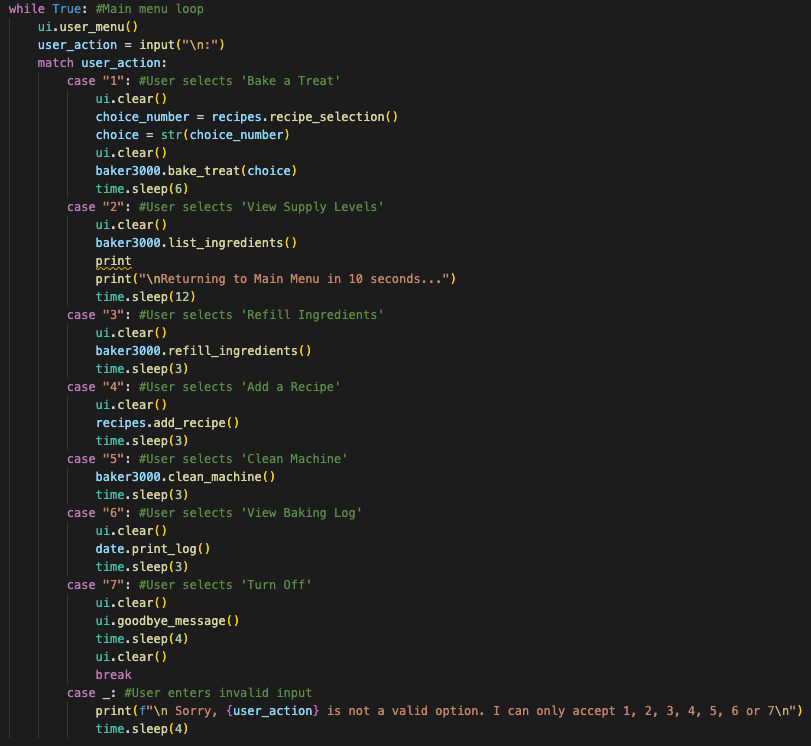
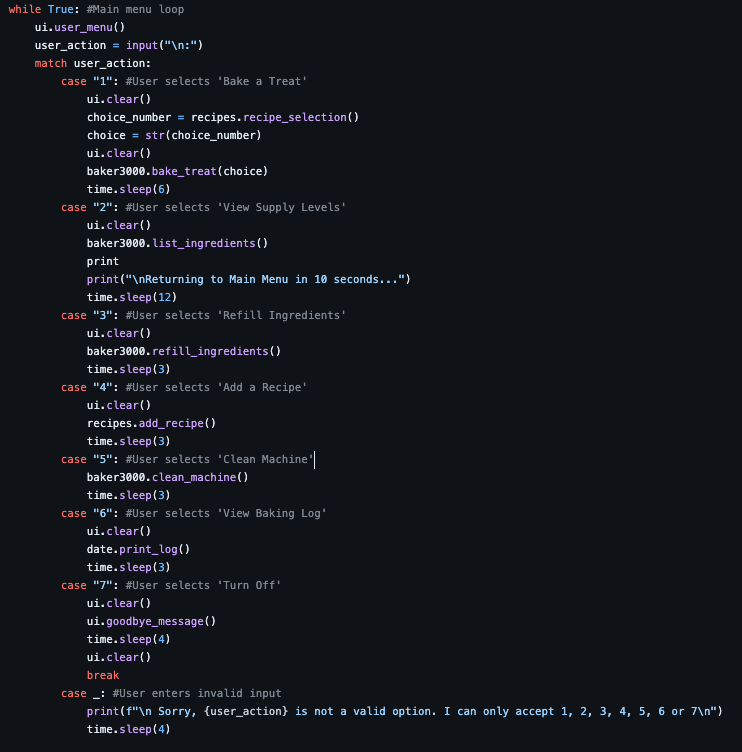
made some PEP8 styling modifications

Changed region(s): [[0.0, 0.0, 0.9919, 0.9866]]

diff --git a/src/baker3000.py b/src/baker3000.py
@@ -6,9 +6,7 @@ colorama.init(autoreset=True)
 from recipes import Recipe
 from user_interface import clear
 
-"""
-This module contains the class Machine for the baking simulation.
- """
+"""This module contains the class Machine for the baking simulation."""
 
       
 class Machine:
@@ -16,8 +14,7 @@ class Machine:
     """
 
     def __init__(self):
-        """Creates an instance of the Machine
-        """        
+        """Creates an instance of the Machine"""        
         self.recipes = Recipe()
         """Recipe attribute of the machine - it creates an instance of the class Recipe() so that it can access methods relating to the recipes the machine stores """      
         self.ingredients = self.load_ingredients()
@@ -69,32 +66,26 @@ class Machine:
         Function calls the list_ingredients method so the user can see current ingredient levels before refilling.\n
         While loop is used so that user can refill multiple ingredients before returning to the main menu.\n
         User is promted to provide the number of the corresponding ingredient they would like to refill in addition to how much of that ingredient they would like to refill.\n
-        Function calls the save_ingredients method so the new ingredient levels are saved to an external JSON file."""
-        #While loop allows user to refill multiple ingredients before returning to main menu
+        Function calls the save_ingredients method so the new ingredient levels are saved to an external JSON file.
+        """
         while True:
             self.list_ingredients()
             print("\nWhat would you like to do?")
             print("\n[1] Refill ingredient")
             print("[2] Return to Main Menu")
             decision = input("\nEnter the number of your choice: ")
-            #User chose to refill ingredient
             if decision == '1':
                 clear()
                 self.list_ingredients()
                 try:
                     ingredient_to_refill = input("\nPlease enter the name of the ingredient you would like to refill\n").lower()
-                    #Retreiving the max quantity of the ingredient the user chose to refill
-                    max_quantity = self.max_quantities.get(ingredient_to_refill)
+                    max_quantity = self.max_quantities.get(ingredient_to_refill) 
                     clear()
-                    #Checking if the ingredient the user chose to refill is a valid ingredient
                     if max_quantity is not None:
                         current_quantity = self.ingredients.get(ingredient_to_refill)
                         refill_amount = int(input(f"\nHow much/many {ingredient_to_refill.capitalize()} would you like to refill? I currently have {self.ingredients[ingredient_to_refill]} out of {self.max_quantities.get(ingredient_to_refill)}\n"))
-                        #Will only refill positive quantity
                         if refill_amount >= 0:
-                            #Ensuring user does not overfill ingredient above maximum capacity
                             if current_quantity + refill_amount <= max_quantity:
-                                #Adjusting new ingredient levels
                                 self.ingredients[ingredient_to_refill] += refill_amount
                                 clear()
                                 print("Refilling... Please Wait...")
@@ -123,7 +114,6 @@ class Machine:
                     time.sleep(2)
                     clear()
                     self.refill_ingredients()
-            #User chose to return to main menu
             elif decision == '2':
                 clear()
                 print("Returning to Main Menu...")
@@ -132,7 +122,6 @@ class Machine:
                 print("\n -- Invalid input -- Please enter either '1' or '2'\n")
                 time.sleep(2)
                 clear()
-        #Saves new ingredient level to external JSON doc
         self.save_ingredients()
         
 

diff --git a/README.md b/README.md
@@ -27,9 +27,17 @@ The first feature of the application is the 'Main Menu'. The main menu is what t
 
 ![](docs/main_menu.png)
 
-As you can see from the image above, the main menu displays a message asking the user what they would like to do and to please select a number from the list of features that are available to them. In order 
+As you can see from the image above, the main menu displays a message asking the user what they would like to do and to please select a number from the list of features that are available to them. 
+
+In order to make this function like a main menu, something that the user can keep coming back to, I used a while loop with a nested match statement that uses the user's input to select the feature they would like to access. See the code below.
+
+![](docs/main_menu_code.png)
+
+After taking, user input as user_action, the match statement will match the user's input with the feature they have selected. Once each feature is run, the user will return back to the main menu (in the while loop) and will be promted to give another input. This will continue until the user_input == '7', in which case the loop will be broken (through the use of a 'break' statement ) and the simulation will end. In the case that the user enters invalid input (a string or an integer not in the match statement), an error message will occur asking the user to enter a valid input.
 
 ### 2. Bake a Treat
+
+The second feature in the Baker3000 baking simulation is the of course, the ability to bake a treat. 
 
 ### 3. View Supply Levels
 
